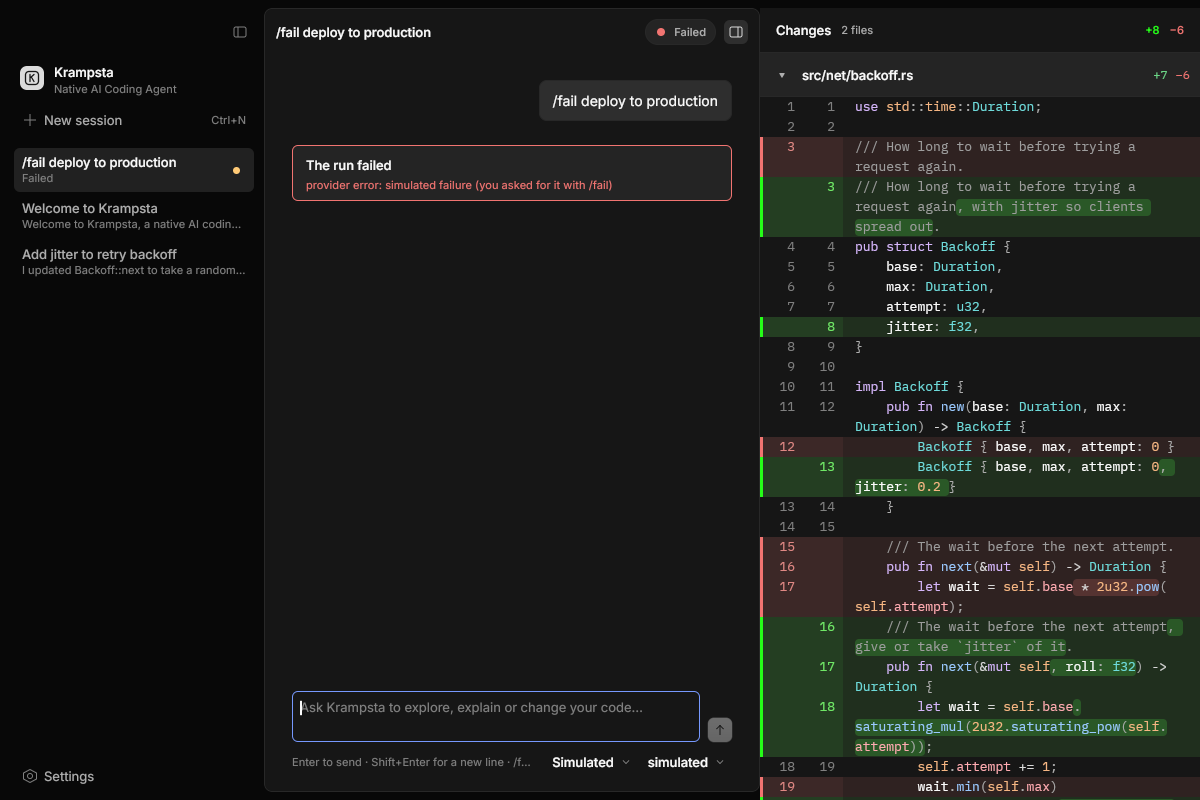
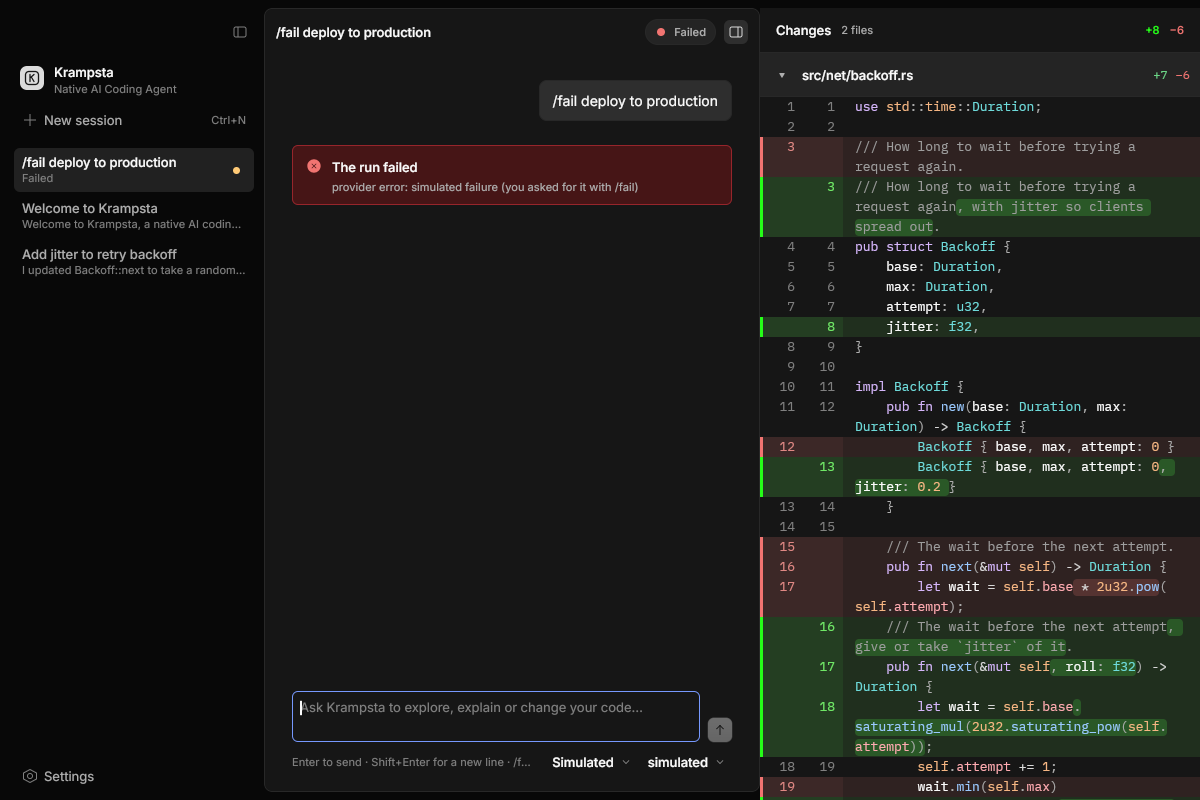
Add a shimmer to the working lines and an Alert component
- "Starting…" and "Thinking…" get a band of light sweeping across them
  (Rune's shimmer recipe: renderer-owned loops, no per-frame rebuild).
- Alert: a tinted card with a status icon, title, description and an
  optional action, in four tones. The failed-run card and the failed
  sign-in use it; new `sign-in-failed` scene.

Changed region(s): [[0.2158, 0.1562, 0.6167, 0.2812]]

diff --git a/crates/krampsta-ui/src/components/alert.rs b/crates/krampsta-ui/src/components/alert.rs
@@ -1,0 +1,91 @@
+//! An alert in the page: a tinted card with a status icon, a title, an optional description
+//! and an optional action. For what the user should read now (a run that failed, a sign-in that
+//! didn't go through); a one-line hint stays a line of text.
+
+use rune::{El, Icon, col, icon, row, text};
+use rune_kit::{Kit, StateColors};
+
+use crate::components::icons;
+
+/// What the alert is about; picks its colours and icon.
+#[derive(Clone, Copy, Debug, PartialEq, Eq)]
+pub enum Tone {
+    Info,
+    Success,
+    Warning,
+    Danger,
+}
+
+impl Tone {
+    fn colors(self, k: &Kit) -> StateColors {
+        match self {
+            Tone::Info => k.c.info,
+            Tone::Success => k.c.success,
+            Tone::Warning => k.c.warning,
+            Tone::Danger => k.c.danger,
+        }
+    }
+
+    fn icon(self) -> &'static Icon {
+        match self {
+            Tone::Info => &icons::INFO,
+            Tone::Success => &icons::CIRCLE_CHECK,
+            Tone::Warning => &icons::WARNING,
+            Tone::Danger => &icons::CIRCLE_X,
+        }
+    }
+}
+
+pub struct Alert {
+    tone: Tone,
+    title: String,
+    description: Option<String>,
+    action: Option<El>,
+}
+
+impl Alert {
+    pub fn new(tone: Tone, title: impl Into<String>) -> Alert {
+        Alert { tone, title: title.into(), description: None, action: None }
+    }
+
+    /// The details under the title; selectable, so an error can be copied.
+    pub fn description(mut self, d: impl Into<String>) -> Self {
+        self.description = Some(d.into());
+        self
+    }
+
+    /// A control under the text, such as "Try again".
+    pub fn action(mut self, a: El) -> Self {
+        self.action = Some(a);
+        self
+    }
+
+    pub fn build(self, k: &Kit) -> El {
+        let c = self.tone.colors(k);
+        let mut body = col()
+            .gap(4.0)
+            .shrink()
+            .min_w(0.0)
+            .child(text(self.title.clone()).font(k.ty.ui_medium).color(k.c.text_base).wrap());
+        if let Some(d) = self.description {
+            body = body.child(
+                text(d).font(k.ty.small).color(k.c.text_muted).wrap().selectable(true).selection_color(k.selection()),
+            );
+        }
+        if let Some(a) = self.action {
+            body = body.child(row().pt(6.0).child(a));
+        }
+        row()
+            .role("alert")
+            .label(self.title)
+            .w_full()
+            .gap(10.0)
+            .px(14.0)
+            .py(12.0)
+            .radius(k.radius.md)
+            .fill(c.bg)
+            .border(1.0, c.border)
+            .child(icon(self.tone.icon(), 16.0).color(c.icon).mt(1.0))
+            .child(body)
+    }
+}

diff --git a/crates/krampsta-ui/src/components/shimmer.rs b/crates/krampsta-ui/src/components/shimmer.rs
@@ -1,0 +1,40 @@
+//! A label with a band of light sweeping across it, for "the agent is working" lines.
+//!
+//! Rune's recipe (`runtime/tests/shimmer.rs`): a soft-clipped window slides over the dim label
+//! while a bright copy inside it slides back by the same amount, so the copy stays on the label.
+//! Both run on the render clock, so the view isn't rebuilt per frame; reduced motion holds the
+//! sweep still.
+
+use rune::{Color, Easing, El, LoopSpec, TextStyle, el, row, text};
+
+/// The lit band's width, in points.
+const BAND: f32 = 36.0;
+/// How fast the band travels, in points per second.
+const SPEED: f32 = 90.0;
+
+/// `label` in `dim`, with a band of `lit` crossing it every pass. `key` must be unique among
+/// the shimmers on screen: the sweep keeps its phase across rebuilds through it.
+pub fn view(key: &str, label: &str, font: TextStyle, dim: Color, lit: Color) -> El {
+    let (width, _) = rune::text::measure(label, &[], font, None);
+    let period = f64::from((width + BAND) / SPEED);
+    // Offsets are in band widths: from fully left of the label to fully past its end.
+    let (start, end) = (-1.0, width / BAND);
+    let sweep = |from: f32, to: f32| LoopSpec::slide(period, [from, 0.0], [to, 0.0]).easing(Easing::LINEAR);
+    let copy = el()
+        .key(format!("{key}-lit"))
+        .absolute(0.0, 0.0)
+        .w(BAND)
+        .h_full()
+        .looping(sweep(-start, -end))
+        .child(text(label.to_owned()).font(font).color(lit).absolute(0.0, 0.0));
+    let window = el()
+        .key(format!("{key}-band"))
+        .absolute(0.0, 0.0)
+        .w(BAND)
+        .h_full()
+        .clip_fade(BAND / 2.0, 0.0, BAND / 2.0, 0.0)
+        .looping(sweep(start, end))
+        .child(copy)
+        .a11y_hidden();
+    row().key(key.to_owned()).child(text(label.to_owned()).font(font).color(dim)).child(window)
+}

diff --git a/crates/krampsta-ui/src/components/sign_in.rs b/crates/krampsta-ui/src/components/sign_in.rs
@@ -5,6 +5,7 @@ use rune::{El, TextStyle, Tx, col, row, text};
 use rune_kit::{Button, ButtonVariant, ControlSize, Dialog, Kit};
 
 use crate::accounts::SignIn;
+use crate::components::alert::{Alert, Tone};
 use crate::keys;
 use crate::state::KrampstaApp;
 
@@ -54,20 +55,18 @@ pub fn dialog(s: &KrampstaApp, k: &Kit, layer: &mut Vec<El>) {
         }
         SignIn::Failed { provider, error } => {
             let retry = provider.clone();
-            col()
-                .w_full()
-                .gap(14.0)
-                .child(text(error.clone()).font(k.ty.ui).color(k.c.danger.icon).wrap().selectable(true))
-                .child(
-                    row().child(
-                        Button::new("Try again")
-                            .variant(ButtonVariant::Neutral)
-                            .control_size(ControlSize::Regular)
-                            .on_press(move |s: &mut KrampstaApp| s.start_sign_in(&retry))
-                            .build(k)
-                            .key(keys::SIGN_IN_RETRY),
-                    ),
-                )
+            let again = Button::new("Try again")
+                .variant(ButtonVariant::Neutral)
+                .control_size(ControlSize::Regular)
+                .on_press(move |s: &mut KrampstaApp| s.start_sign_in(&retry))
+                .build(k)
+                .key(keys::SIGN_IN_RETRY);
+            col().w_full().child(
+                Alert::new(Tone::Danger, "The sign-in didn't go through")
+                    .description(error.clone())
+                    .action(again)
+                    .build(k),
+            )
         }
     };
     Dialog::new(keys::SIGN_IN, format!("Sign in to {label}"))

diff --git a/crates/krampsta-ui/src/views/chat.rs b/crates/krampsta-ui/src/views/chat.rs
@@ -6,7 +6,8 @@ use krampsta_core::{AgentStatus, MessageRole, Session, ToolCallId};
 use rune::{El, ScrollSpec, col, icon, row, text};
 use rune_kit::Kit;
 
-use crate::components::{composer, icons, message};
+use crate::components::alert::{Alert, Tone};
+use crate::components::{composer, icons, message, shimmer};
 use crate::keys;
 use crate::state::KrampstaApp;
 use crate::theme;
@@ -67,24 +68,11 @@ fn waiting(k: &Kit) -> El {
         .gap(8.0)
         .items_center()
         .child(rune_kit::Spinner::new().size(12.0).color(theme::accent(k.dark)).build(k))
-        .child(text("Starting…").font(k.ty.ui).color(k.c.text_muted))
+        .child(shimmer::view(keys::STARTING, "Starting…", k.ty.ui, k.c.text_faint, k.c.text_base))
 }
 
 fn run_error(error: &str, k: &Kit) -> El {
-    let c = &k.c.danger;
-    col()
-        .key(keys::RUN_ERROR)
-        .role("alert")
-        .label("Run failed")
-        .w_full()
-        .gap(4.0)
-        .px(14.0)
-        .py(10.0)
-        .radius(k.radius.md)
-        .fill(k.c.layer_01)
-        .border(1.0, c.icon)
-        .child(text("The run failed").font(k.ty.ui_medium).color(k.c.text_base))
-        .child(text(error.to_owned()).font(k.ty.small).color(c.icon).wrap().selectable(true))
+    Alert::new(Tone::Danger, "The run failed").description(error).build(k).key(keys::RUN_ERROR)
 }
 
 fn empty_state(k: &Kit) -> El {

diff --git a/crates/krampsta-ui/src/app.rs b/crates/krampsta-ui/src/app.rs
@@ -170,6 +170,12 @@ const SCENES: &[Scene] = &[
         let code = DeviceCode { url: "https://github.com/login/device".into(), code: "ABCD-1234".into() };
         s.sign_in = SignIn::Code { provider: "copilot".into(), code };
     }),
+    ("sign-in-failed", |s| {
+        stage_accounts(s, false);
+        s.screen = Screen::Settings;
+        let error = "The code expired before it was entered. Ask for a new one and enter it within 15 minutes.";
+        s.sign_in = SignIn::Failed { provider: "chatgpt".into(), error: error.into() };
+    }),
     ("changes-hidden", |s| s.toggle_changes()),
     ("sidebar-hidden", |s| s.sidebar.toggle()),
     // Signed in and on a real provider: the list shows its groups, the simulated agent hidden.

diff --git a/crates/krampsta-ui/src/components/message.rs b/crates/krampsta-ui/src/components/message.rs
@@ -7,7 +7,7 @@ use krampsta_core::{Message, MessageRole, ToolCallId};
 use rune::{El, col, icon, row, text};
 use rune_kit::{Kit, Markdown, Spinner};
 
-use crate::components::{icons, tool_card};
+use crate::components::{icons, shimmer, tool_card};
 use crate::keys;
 use crate::theme;
 
@@ -62,5 +62,5 @@ fn thinking(k: &Kit) -> El {
         .gap(8.0)
         .items_center()
         .child(Spinner::new().size(12.0).color(theme::accent(k.dark)).build(k))
-        .child(text("Thinking…").font(k.ty.ui).color(k.c.text_muted))
+        .child(shimmer::view(keys::THINKING, "Thinking…", k.ty.ui, k.c.text_faint, k.c.text_base))
 }

diff --git a/crates/krampsta-ui/src/keys.rs b/crates/krampsta-ui/src/keys.rs
@@ -15,6 +15,9 @@ pub const SEND: &str = "krampsta-send";
 pub const STOP: &str = "krampsta-stop";
 pub const STATUS: &str = "krampsta-agent-status";
 pub const RUN_ERROR: &str = "krampsta-run-error";
+/// The shimmering "working" lines: before the reply starts, and while it has no text yet.
+pub const STARTING: &str = "krampsta-starting";
+pub const THINKING: &str = "krampsta-thinking";
 pub const CHANGES_TOGGLE: &str = "krampsta-changes-toggle";
 pub const CHANGES: &str = "krampsta-changes";
 pub const SETTINGS_PAGE: &str = "krampsta-settings-page";

diff --git a/crates/krampsta-ui/src/components/icons.rs b/crates/krampsta-ui/src/components/icons.rs
@@ -3,7 +3,7 @@
 use rune::Icon;
 
 pub use rune_theme_opencode::icons::{
-    ARROW_UP, CHECK, GITHUB, PLUS, SETTINGS_GEAR as GEAR, STOP, TERMINAL as TOOL, WARNING,
+    ARROW_UP, CHECK, CIRCLE_CHECK, CIRCLE_X, GITHUB, INFO, PLUS, SETTINGS_GEAR as GEAR, STOP, TERMINAL as TOOL, WARNING,
 };
 
 /// OpenAI's mark, for the ChatGPT account (24-point SVG, current colour).

diff --git a/crates/krampsta-ui/src/components/mod.rs b/crates/krampsta-ui/src/components/mod.rs
@@ -1,9 +1,11 @@
 //! Small reusable pieces of Krampsta's interface.
 
+pub mod alert;
 pub mod composer;
 pub mod engine_picker;
 pub mod icons;
 pub mod message;
+pub mod shimmer;
 pub mod sign_in;
 pub mod status;
 pub mod tool_card;

diff --git a/.claude/skills/verify-ui/SKILL.md b/.claude/skills/verify-ui/SKILL.md
@@ -31,7 +31,7 @@ bash scripts/snapshots.sh
 
 Escribe en `assets/screenshots/`: `krampsta` (estado inicial), `empty`, `running`, `tools`
 (tarjetas de herramienta: abierta, fallida y en curso), `completed`,
-`failed`, `cancelled`, `settings`, `signed-in`, `sign-in` (diálogo con el código), `light`,
+`failed`, `cancelled`, `settings`, `signed-in`, `sign-in` (diálogo con el código), `sign-in-failed` (el fallo, con «Try again»), `light`,
 `provider-picker`, `model-picker`, `model-error`
 (selectores abiertos y servidor local caído), `narrow` (800×560) y `send-message` (script real:
 escribe en el composer y pulsa Enter), más `krampsta-tree.json` (árbol de elementos, no versionado).
